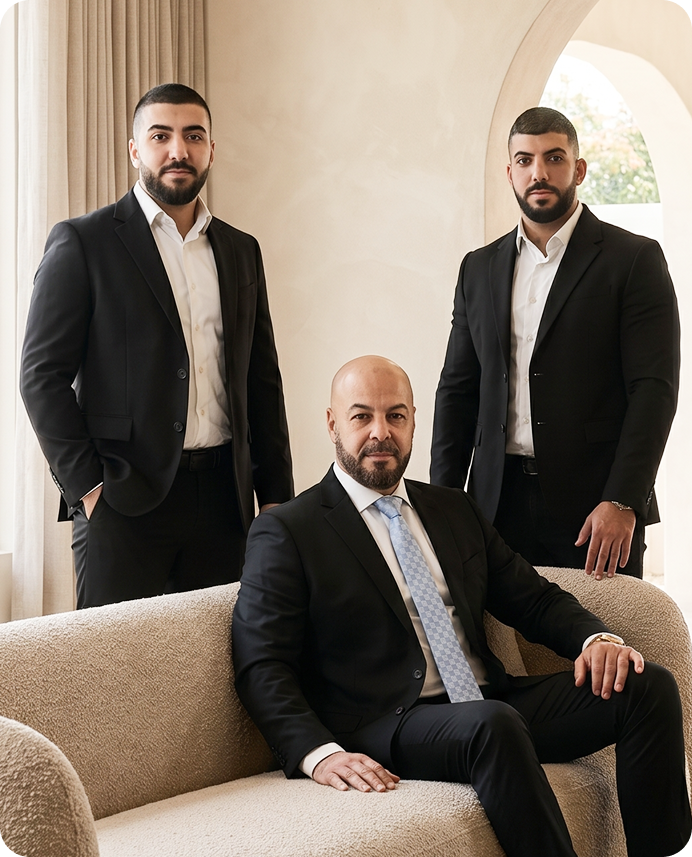
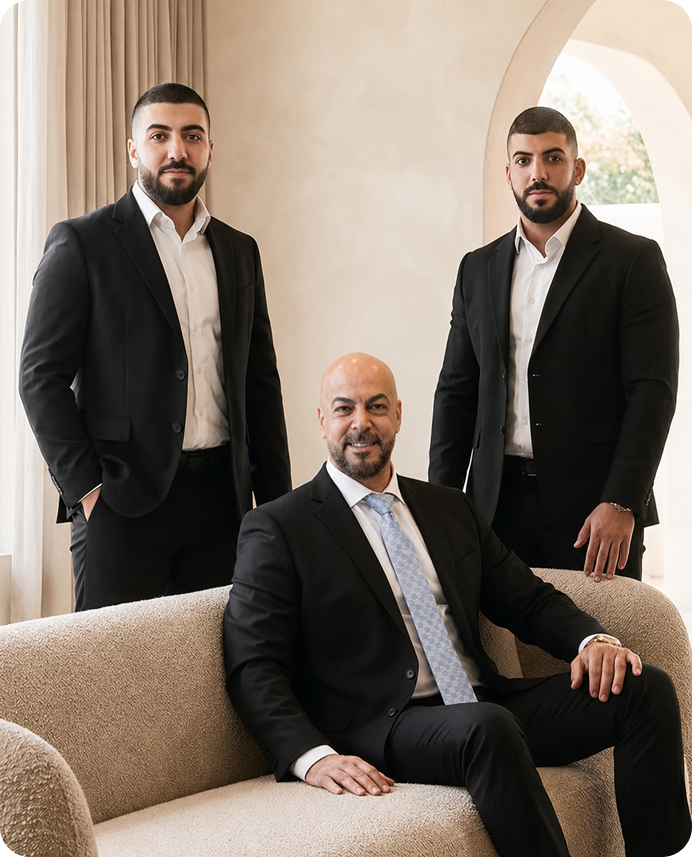
Update : Photo & Add New Employee

diff --git a/components/sections/team/teamSection.tsx b/components/sections/team/teamSection.tsx
@@ -43,6 +43,11 @@ const teamData = [
     role: "Junior Architect",
     image: "/team7.png",
   },
+  {
+    name: "Emily Mateer",
+    role: "Junior Architect",
+    image: "/team8.png",
+  },
 ]
 
 const TeamSection = () => {